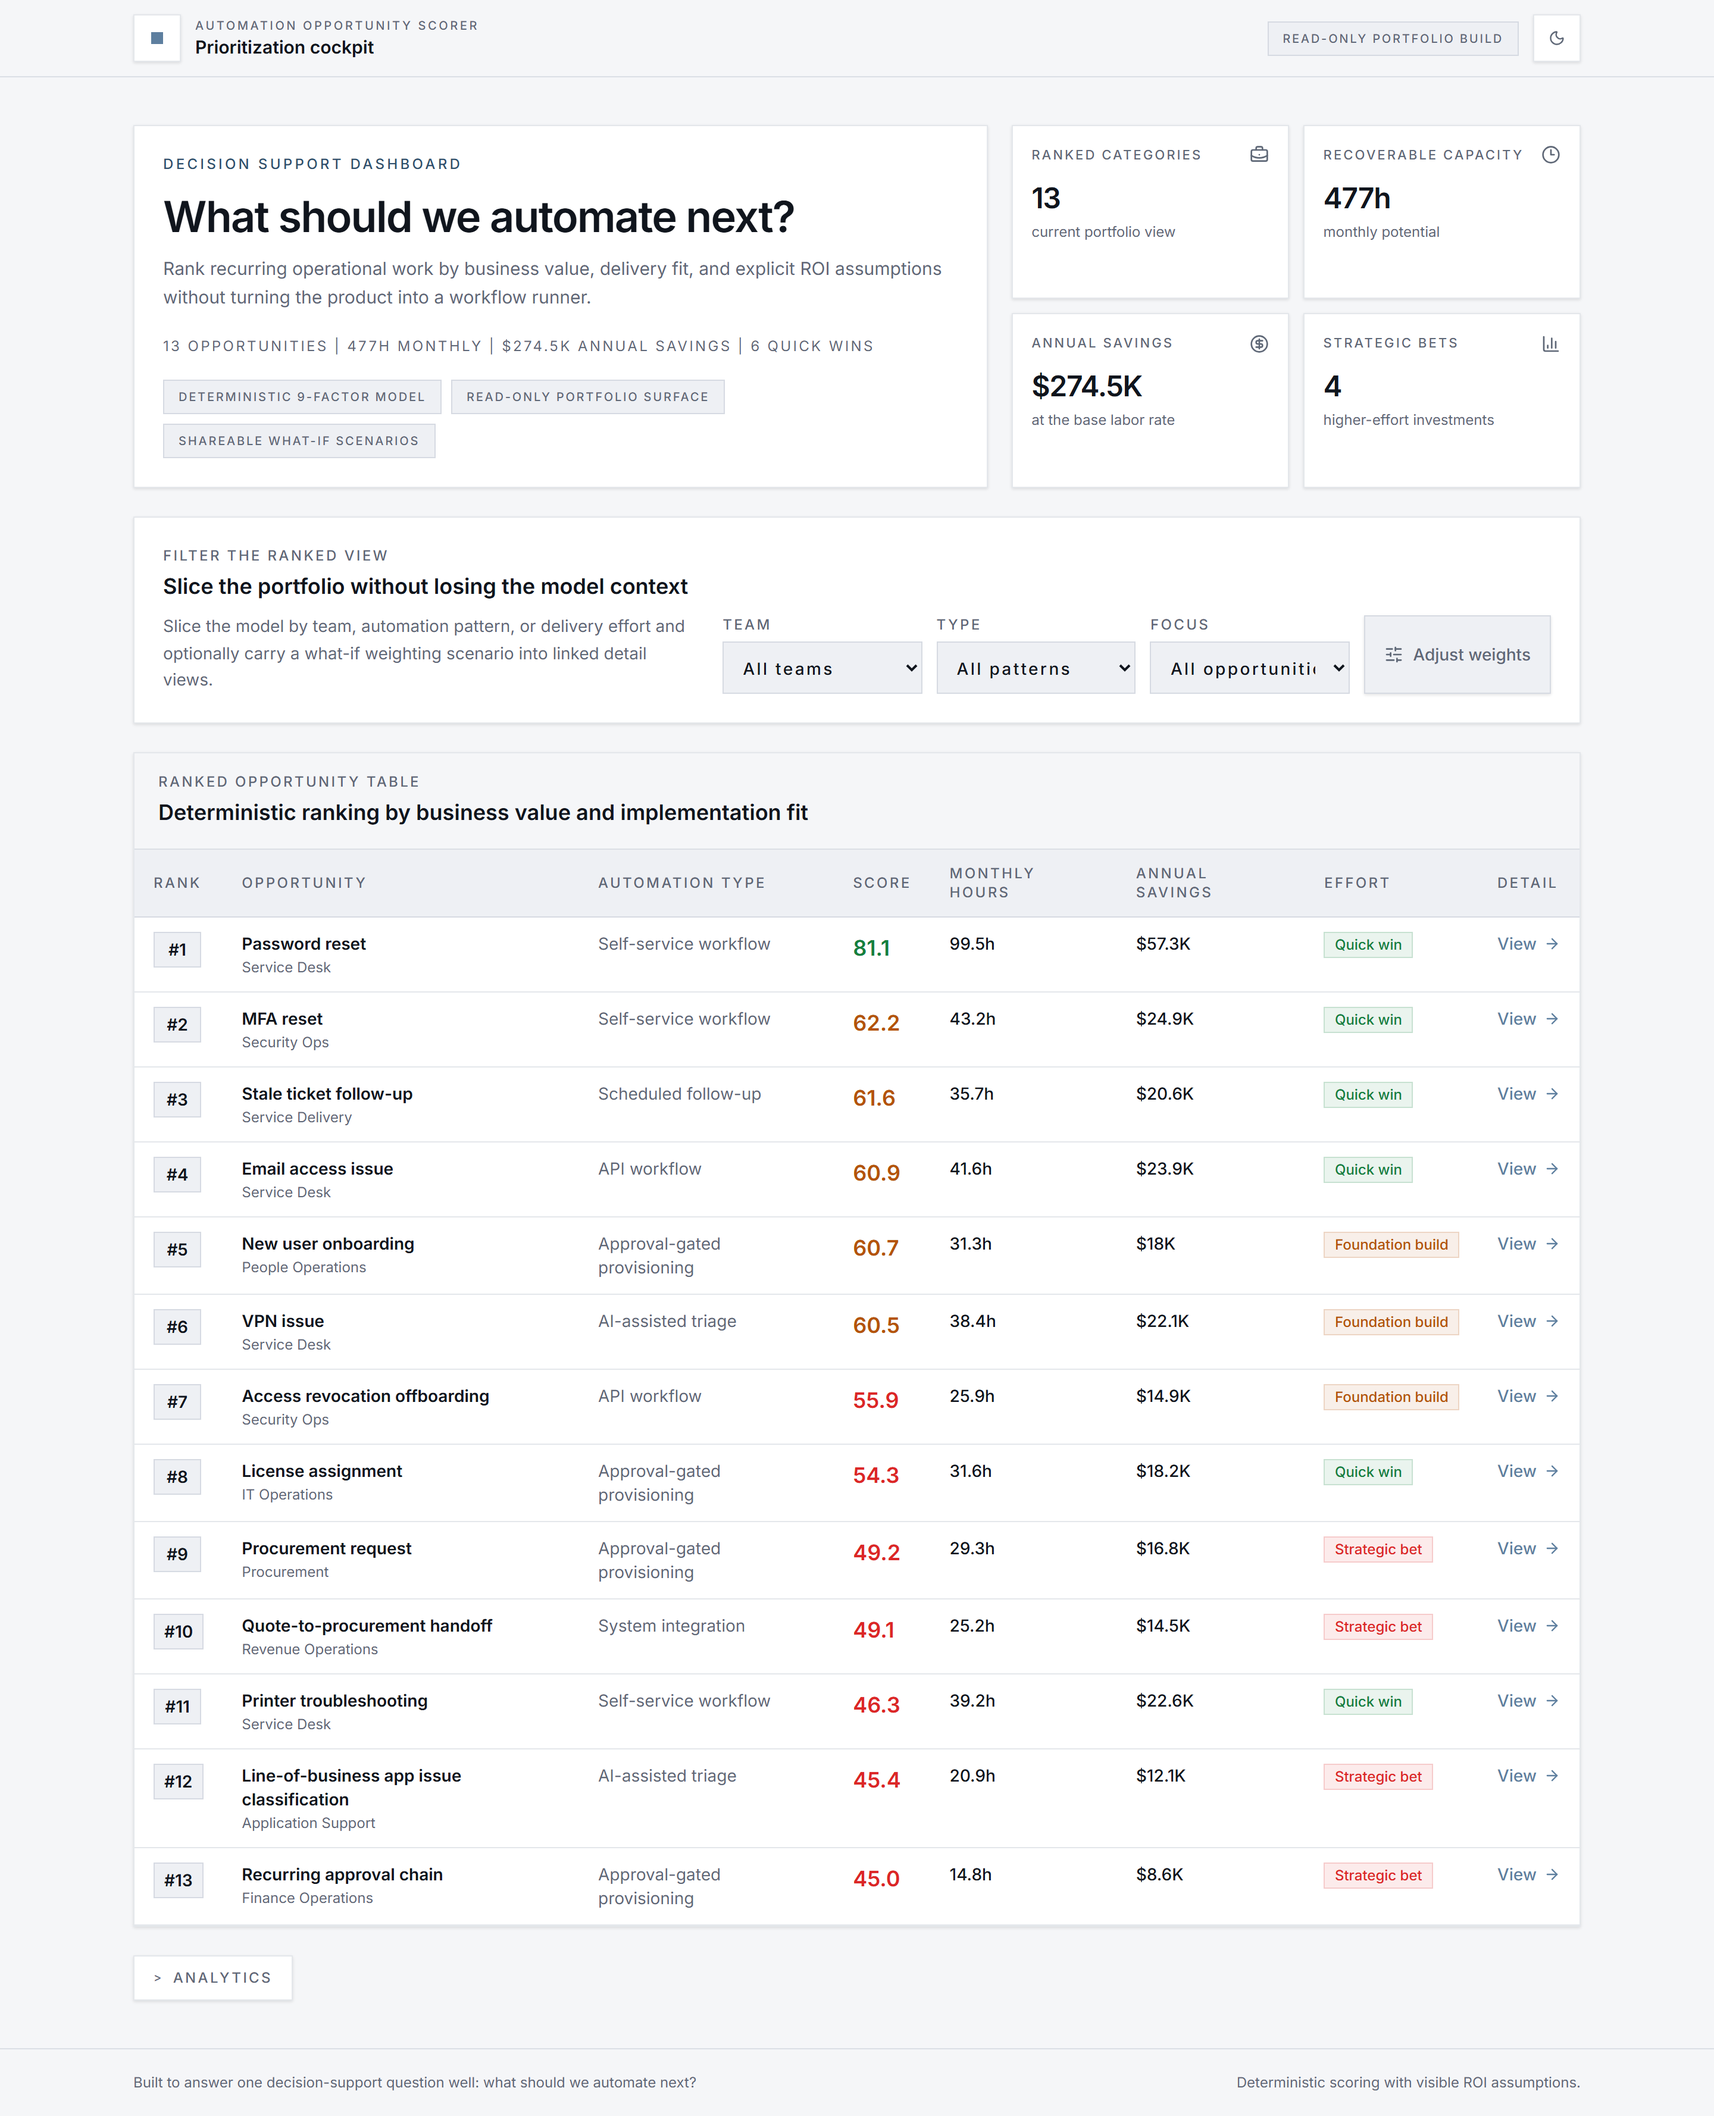
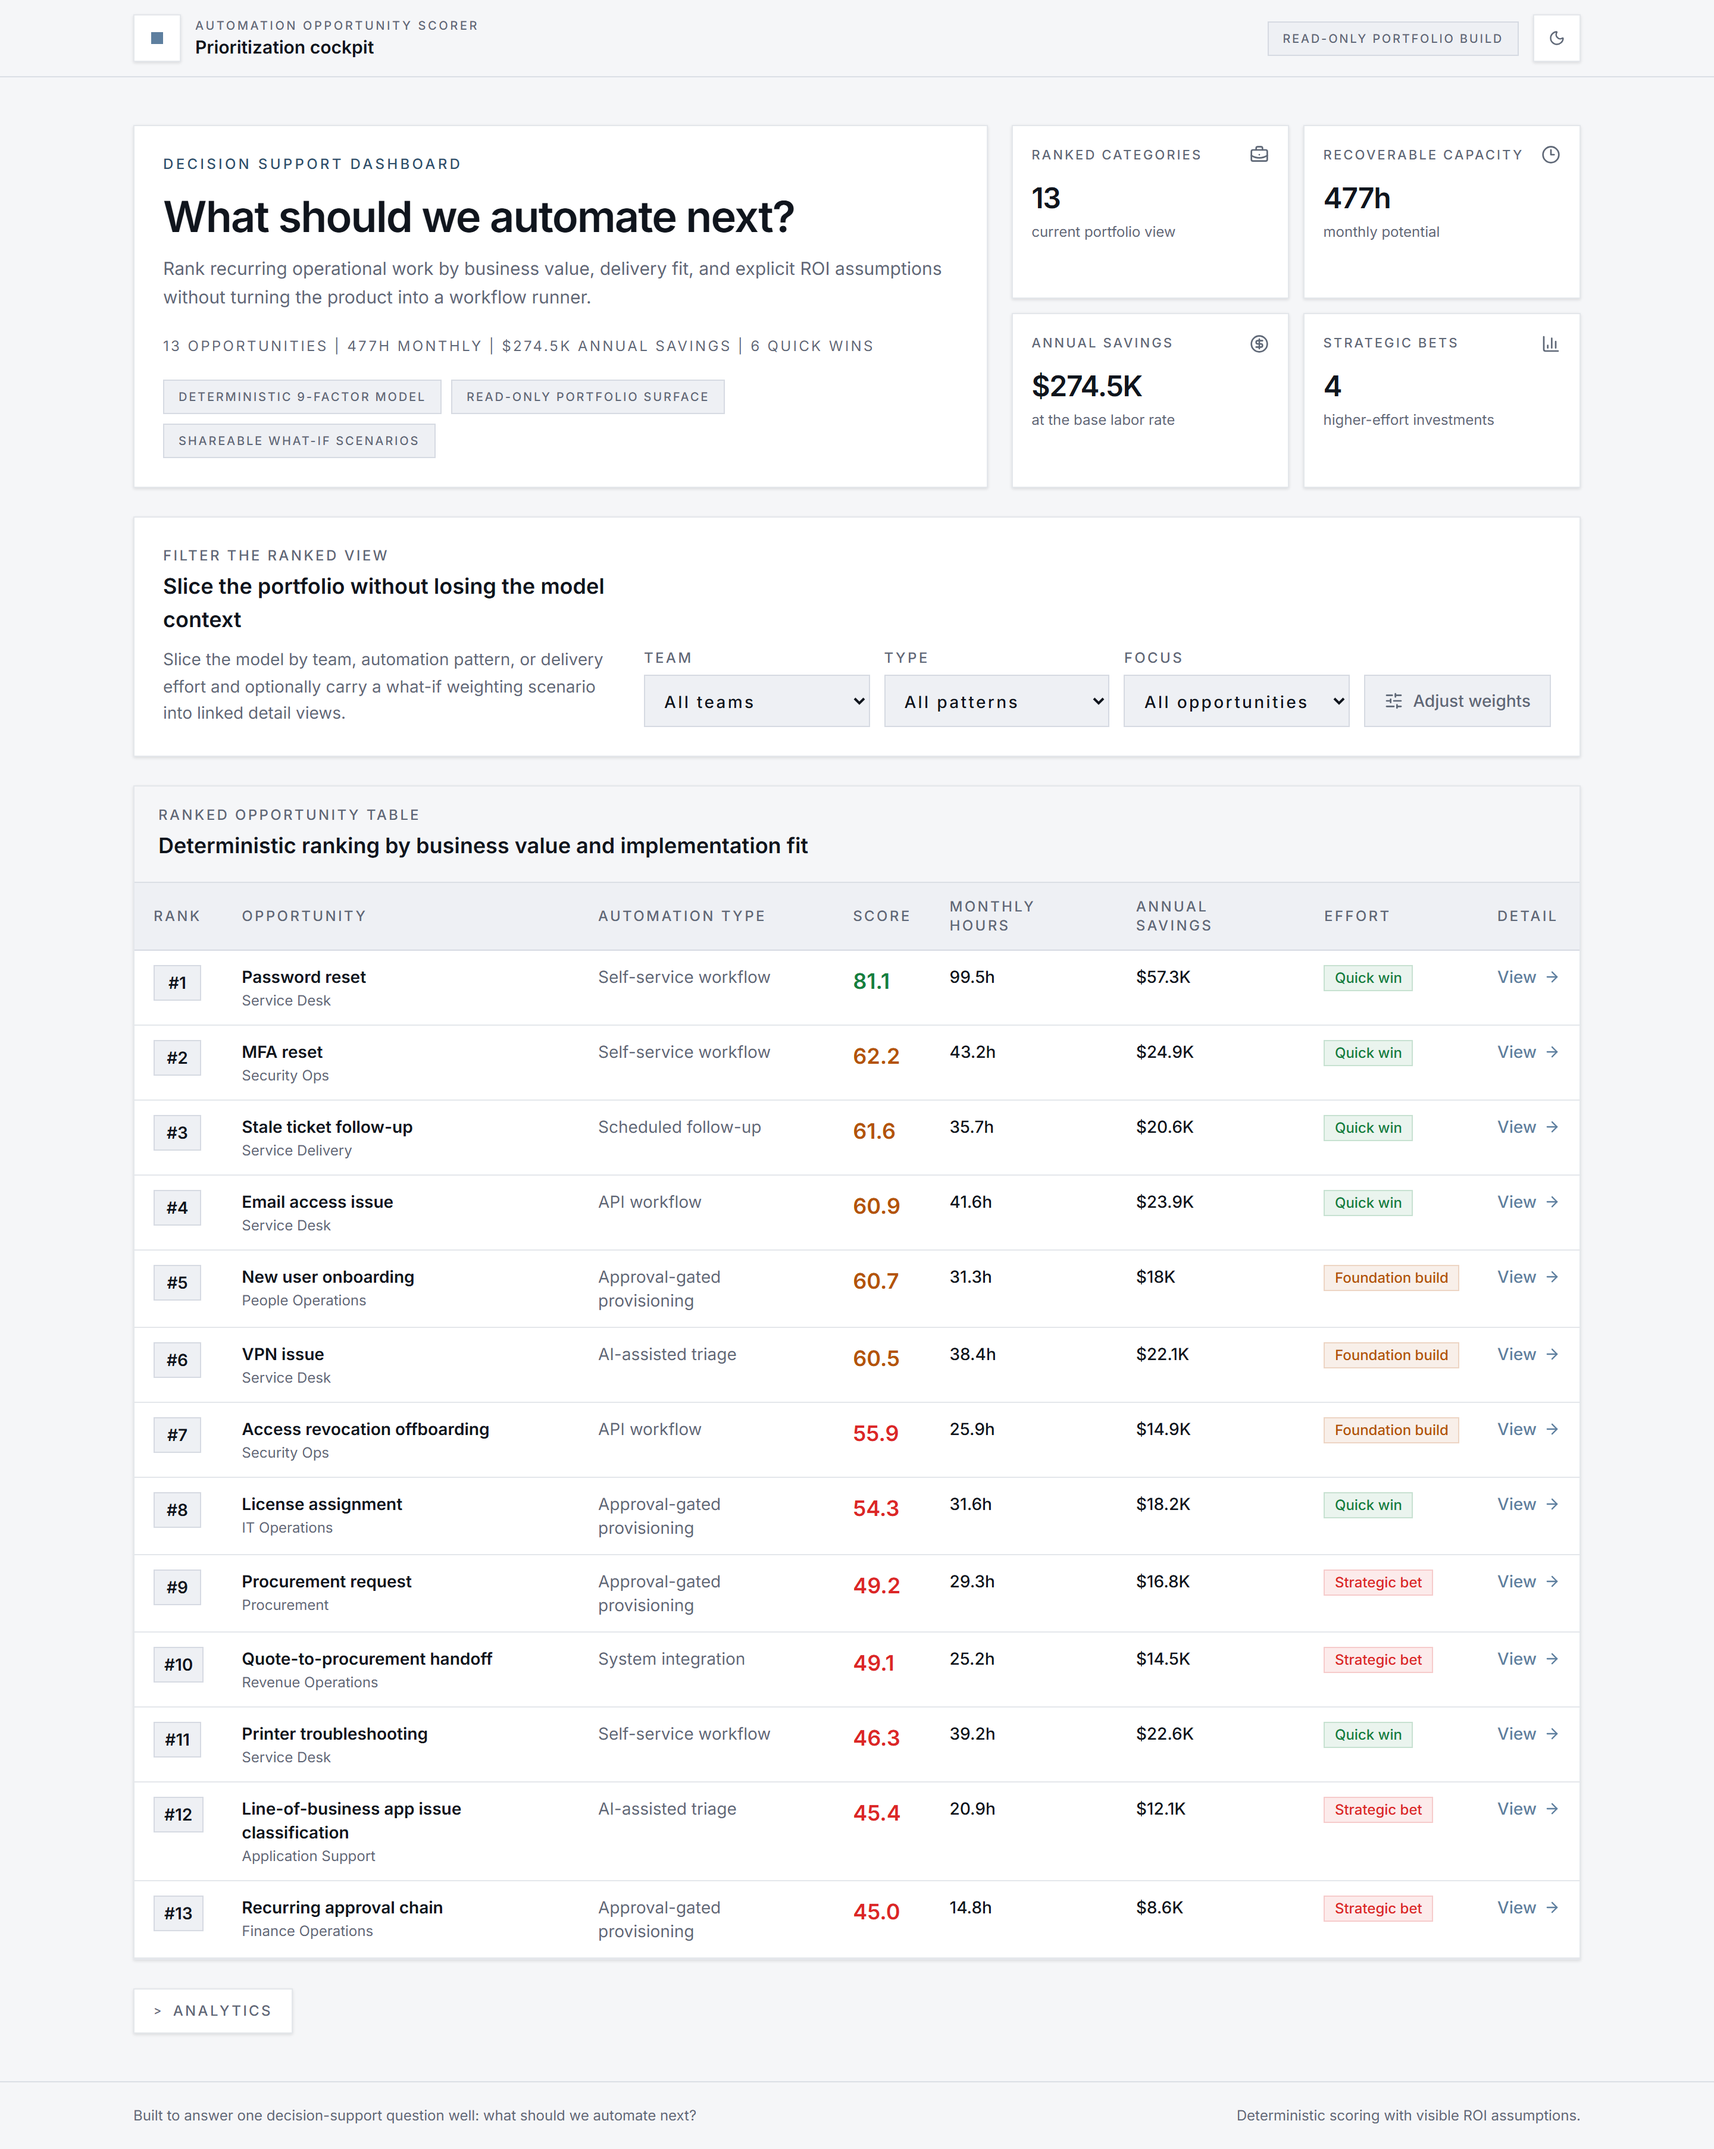
fix: widen filter columns to prevent text truncation, remove shadow from weights button

diff --git a/src/components/dashboard/filters.tsx b/src/components/dashboard/filters.tsx
@@ -72,21 +72,21 @@ export function DashboardFilters({
   return (
     <SurfaceCard>
       <div className="flex flex-col gap-5 xl:flex-row xl:items-end xl:justify-between">
-        <div>
+        <div className="xl:max-w-sm">
           <p className="text-xs font-medium uppercase tracking-[0.14em] text-muted-foreground">
             Filter the ranked view
           </p>
           <h2 className="mt-1 text-lg font-semibold text-foreground">
             Slice the portfolio without losing the model context
           </h2>
-          <p className="mt-2 max-w-2xl text-sm leading-relaxed text-muted-foreground">
+          <p className="mt-2 text-sm leading-relaxed text-muted-foreground">
             Slice the model by team, automation pattern, or delivery effort
             and optionally carry a what-if weighting scenario into linked detail
             views.
           </p>
         </div>
 
-        <div className="grid gap-3 md:grid-cols-2 xl:min-w-[40rem] xl:grid-cols-[repeat(3,minmax(0,1fr))_auto]">
+        <div className="grid gap-3 md:grid-cols-2 xl:grid-cols-[repeat(3,minmax(11rem,1fr))_auto]">
           <label className="flex min-w-0 flex-col gap-1.5 text-xs font-medium uppercase tracking-[0.14em] text-muted-foreground">
             Team
             <select
@@ -140,7 +140,7 @@ export function DashboardFilters({
             type="button"
             onClick={onToggleSlider}
             aria-label="Adjust weights"
-            className={`inline-flex min-h-11 items-center justify-center gap-2 border px-4 py-2 text-sm font-medium shadow-card transition ${
+            className={`inline-flex min-h-11 items-center justify-center gap-2 self-end whitespace-nowrap border px-4 py-2 text-sm font-medium transition ${
               sliderOpen
                 ? "border-accent/40 bg-accent-soft text-accent-strong"
                 : "border-line bg-surface-subtle text-muted-foreground hover:border-accent/25 hover:text-foreground"
